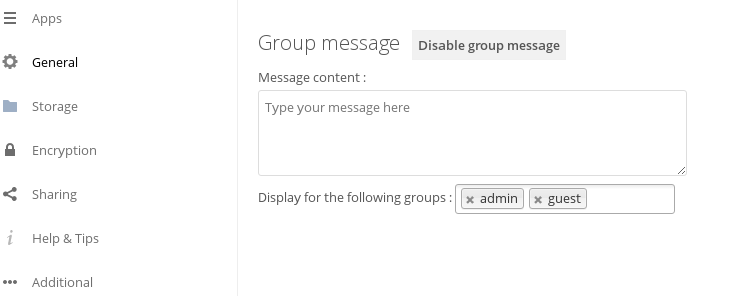
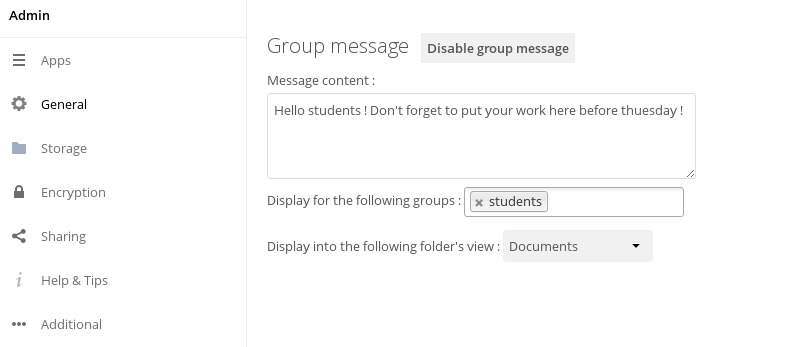
add dir selection

diff --git a/js/settings-admin.js b/js/settings-admin.js
@@ -1,4 +1,4 @@
-function updatePrompt(appUrl) {
+function updatePrompt(appUrl, notificationSave) {
 
     var text = $("#GA-setMsg-form").find('#GA-setMsg').val()
 
@@ -29,6 +29,10 @@ function updatePrompt(appUrl) {
 
     });
 
+    $("#GA-setMsg").on("blur", function() {
+        OC.Notification.showTemporary(t('settings', notificationSave), {timeout: 2});
+    });
+
     //Update value of checkbox and update button content
     $("#GA-setDisplay").on("change", function(){
         var checkedVal;
@@ -50,7 +54,30 @@ function updatePrompt(appUrl) {
             data: 'checked='+checkedVal,
         })
             .done(function(response) {
+                OC.Notification.showTemporary(t('settings', notificationSave), {timeout: 2});
                 //console.log(response);
+            })
+            .fail(function() {
+                //console.log("error");
+            })
+            .always(function() {
+                //console.log("complete");
+            });
+    });
+
+
+    //update value of select folders
+    $('#GA-folder-form').on('change', function(){
+       var selectedVal = '/'+$('#GA-folder option:selected').val();
+        $.ajax({
+            url: appUrl + 'ajax/settings.php',
+            type: 'GET',
+            dataType: 'html',
+            data: 'folder='+selectedVal,
+        })
+            .done(function() {
+                OC.Notification.showTemporary(t('settings', notificationSave), {timeout: 2});
+                //console.log("success");
             })
             .fail(function() {
                 //console.log("error");
@@ -67,11 +94,13 @@ function updatePrompt(appUrl) {
 
 $(document).ready(function () {
 
-    var appUrl = $('#GA-appUrl').val()
+    var appUrl = $('#GA-appUrl').val();
+    var notificationSave = $('#GA-l10n-notification-save').text();
 
     //hydrate form fields with current values and display button content
     $.getJSON(appUrl + 'lib/settings.json', function(data) {
         $('#GA-setMsg').val(data.texte);
+        $('#GA-folder').val(data.folder.split('/')[1]);
         var GASetDisplay = $('#GA-setDisplay');
         $(GASetDisplay).val(data.checked);
         var GATranslate;
@@ -101,6 +130,7 @@ $(document).ready(function () {
             data: 'groups='+groups
         })
             .done(function(response) {
+                OC.Notification.showTemporary(t('settings', notificationSave), {timeout: 2});
                 //console.log(appUrl);
             })
             .fail(function() {
@@ -111,6 +141,8 @@ $(document).ready(function () {
             });
     });
 
-    updatePrompt(appUrl);
+
+
+    updatePrompt(appUrl, notificationSave);
 
 });

diff --git a/js/alert-modal.js b/js/alert-modal.js
@@ -1,4 +1,33 @@
+function getTargetDir() {
+    var targetDir = '/';
+    var currentUrl = window.location.href;
+    try {
+        var targetDir = currentUrl.split('?')[1].split('&')[0];
+        if (targetDir.split('/')[0] === 'dir=') {
+            targetDir = targetDir.split('=')[1];
+        }
+    }
+    catch(err) {
+
+    }
+    return targetDir;
+}
+
+function showMessage() {
+    var targetDir = getTargetDir();
+    var baseUrl = OC.generateUrl('');
+    var instanceRoot = baseUrl.split('/');
+    var instanceName = instanceRoot[1];
+    $.getJSON('/'+instanceName+'/apps/groupalert/lib/settings.json', function(data) {
+        if (data.checked === 'true' && targetDir === data.folder) {
+            $('.GA-message-content').html(data.texte);
+            $('.GA-message').show();
+        }
+    });
+}
+
 $(document).ready(function () {
+
     //add HTML to files view
     $('#app-content-files').append('<div class="GA-message" style="display: block;">\n' +
         '\t<div class="GA-close">X</div>\n' +
@@ -8,18 +37,10 @@ $(document).ready(function () {
     //By default hide HTML
     $('.GA-message').hide();
 
-    //hydrate HTML
-    var baseUrl = OC.generateUrl('');
-    var instanceRoot = baseUrl.split('/');
-    var instanceName = instanceRoot[1];
-
-    $.getJSON('/'+instanceName+'/apps/groupalert/lib/settings.json', function(data) {
-
-        if (data.checked === 'true') {
-            $('.GA-message-content').html(data.texte);
-            $('.GA-message').show();
-        }
-    });
+    //display on document ready
+    showMessage();
+    //display on click on filelist dir & breadcrumb
+    $(document).on('click', 'a.name, .crumb', showMessage);
 
     $('.GA-close').click(function() {
         $('.GA-message').hide();

diff --git a/l10n/de_DE.js b/l10n/de_DE.js
@@ -1,11 +1,14 @@
 OC.L10N.register(
     "groupalert",
     {
-    "Group message" : "Gruppennachricht",
-    "Display for the following groups" : "Zeige für die folgenden Gruppen",
-    "Message content" : "Inhalt der Nachricht",
-    "Enable group message" : "Aktivieren Sie die Nachricht",
-    "Disable group message" : "Deaktivieren Sie die Nachricht",
-    "Type your message here" : "Deine Nachricht"
+        "Group message" : "Gruppennachricht",
+        "Display for the following groups" : "Zeige für die folgenden Gruppen",
+        "Message content" : "Inhalt der Nachricht",
+        "Enable group message" : "Aktivieren Sie die Nachricht",
+        "Disable group message" : "Deaktivieren Sie die Nachricht",
+        "Type your message here" : "Deine Nachricht",
+        "Group-Alert modifications saved": "gespeicherte Änderungen",
+        "Display into the following folder's view": "In der folgenden Ordneransicht anzeigen",
+        "Main file's view" : "Ansicht der Hauptdatei"
 },
 "nplurals=2; plural=(n > 1);");

diff --git a/l10n/en_GB.js b/l10n/en_GB.js
@@ -1,11 +1,14 @@
 OC.L10N.register(
     "groupalert",
     {
-    "Group message" : "Group message",
-    "Display for the following groups" : "Display for the following groups",
-    "Message content" : "Message content",
-    "Enable group message" : "Enable group message",
-    "Disable group message" : "Disable group message",
-    "Type your message here" : "Type your message here"
+        "Group message" : "Group message",
+        "Display for the following groups" : "Display for the following groups",
+        "Message content" : "Message content",
+        "Enable group message" : "Enable group message",
+        "Disable group message" : "Disable group message",
+        "Type your message here" : "Type your message here",
+        "Group-Alert modifications saved": "Group-Alert modifications saved",
+        "Display into the following folder's view": "Display into the following folder's view",
+        "Main file's view" : "Main file's view"
     },
     "nplurals=2; plural=(n > 1);");

diff --git a/l10n/fr.js b/l10n/fr.js
@@ -1,11 +1,14 @@
 OC.L10N.register(
     "groupalert",
     {
-    "Group message" : "Message de groupes",
-    "Display for the following groups" : "Afficher pour les groupes suivants",
-    "Message content" : "Contenu du message",
-    "Enable group message" : "Activer le message",
-    "Disable group message" : "Désactiver le message",
-    "Type your message here" : "Votre message"
+        "Group message" : "Message de groupes",
+        "Display for the following groups" : "Afficher pour les groupes suivants",
+        "Message content" : "Contenu du message",
+        "Enable group message" : "Activer le message",
+        "Disable group message" : "Désactiver le message",
+        "Type your message here" : "Votre message",
+        "Group-Alert modifications saved": "Modifications enregistrées",
+        "Display into the following folder's view": "Afficher dans la vue du dossier suivant",
+        "Main file's view" : "Vue principale des fichiers"
 },
 "nplurals=2; plural=(n > 1);");

diff --git a/l10n/es.js b/l10n/es.js
@@ -6,6 +6,9 @@ OC.L10N.register(
         "Message content" : "Contenido del mensaje",
         "Enable group message" : "Habilitar mensaje grupal",
         "Disable group message" : "Deshabilitar mensaje de grupo",
-        "Type your message here" : "Escribe tu mensaje aquí"
+        "Type your message here" : "Escribe tu mensaje aquí",
+        "Group-Alert modifications saved": "Modificaciones mensaje grupal guardadas",
+        "Display into the following folder's view": "Visualizar en la vista de la siguiente carpeta",
+        "Main file's view" : "Vista del archivo principal"
     },
     "nplurals=2; plural=(n > 1);");

diff --git a/css/settings-admin.css b/css/settings-admin.css
@@ -29,6 +29,14 @@
     width: 220px;
 }
 
+#GA-folder-form {
+    margin-top: 10px;
+}
+
+#GA-folder-form select#GA-folder {
+    min-width: 150px;
+}
+
 #translations {
     visibility: hidden;
 }

diff --git a/templates/settings-admin.php b/templates/settings-admin.php
@@ -14,7 +14,18 @@ style('groupalert', 'settings-admin');
         <label for="GA-setGroups"><?php p($l->t('Display for the following groups')); ?> : </label>
         <input type="hidden" id="GA-setGroups" name="GA-setGroups" value="<?php p($_['groups']); ?>">
     </div>
+    <div id="GA-folder-form">
+        <label for="GA-folder"><?php p($l->t("Display into the following folder's view")); ?> : </label>
+        <select name="GA-folder" id="GA-folder">
+            <option value=""><?php p($l->t("Main file's view")); ?></option>
+           <?php foreach ($_['listFolder'] as $folder) { ?>
+               <option value="<?php p($folder); ?>"><?php p($folder); ?></option>
+           <?php } ?>
+        </select>
+
+    </div>
     <ul id="translations">
+        <li id="GA-l10n-notification-save"><?php p($l->t('Group-Alert modifications saved')); ?></li>
         <li id="GA-l10n-disable"><?php p($l->t('Disable group message')); ?></li>
         <li id="GA-l10n-enable"><?php p($l->t('Enable group message')); ?></li>
     </ul>

diff --git a/lib/Controller/AdminController.php b/lib/Controller/AdminController.php
@@ -68,20 +68,36 @@ class AdminController extends Controller implements ISettings {
     }
 
     /**
+     * @return array
+     */
+    public function getListFolder($dir) {
+        $listFile = \OCA\Files\Helper::getFiles($dir);
+        $listFolder = [];
+        foreach ($listFile as $file) {
+
+            if ($file['type'] === 'dir') {
+                $listFolder[] = $file['name'];
+            }
+        }
+        return $listFolder;
+    }
+
+    /**
      * @return TemplateResponse
      */
     public function getPanel() {
         $json_data = $this->getJson();
+        $listFolder = $this->getListFolder('/');
 
         $groups = $json_data['groups'];
         $params = [
             'groups' => str_replace(',', '|', $groups),
             'appUrl' => $this->appUrl,
+            'listFolder' => $listFolder,
         ];
         return new TemplateResponse($this->appName, 'settings-admin', $params, '');
 
     }
-
 
 }
 

diff --git a/appinfo/app.php b/appinfo/app.php
@@ -2,7 +2,7 @@
 namespace OCA\GroupAlert;
 
 use OCP\Util;
-
+use OCP\Files\Folder;
 Util::addStyle('groupalert', 'alert-modal');
 
 
@@ -33,6 +33,7 @@ $eventDispatcher->addListener(
                 foreach ($userGroups as $userGroup) {
                     if ($GAgroup === $userGroup) {
                         $display = true;
+                        break;
                     }
                 }
             }

diff --git a/ajax/settings.php b/ajax/settings.php
@@ -2,7 +2,7 @@
 require_once '../../../lib/base.php';
 $json = OC::$APPSROOTS[0]['path'].'/groupalert/lib/settings.json';
 
-$fields = ['texte', 'checked', 'groups'];
+$fields = ['texte', 'checked', 'groups', 'folder'];
 
 if (file_exists($json)) {
 
